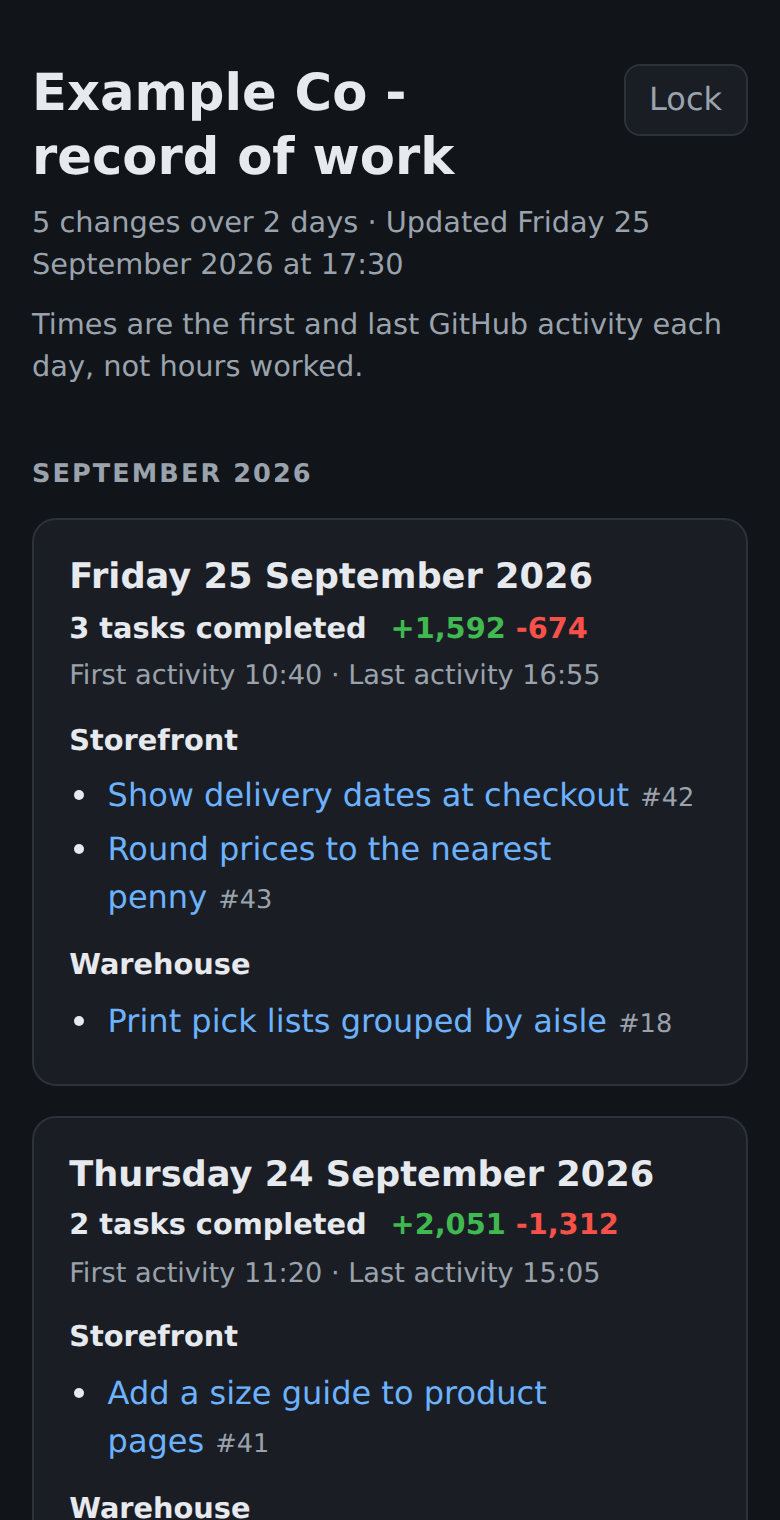
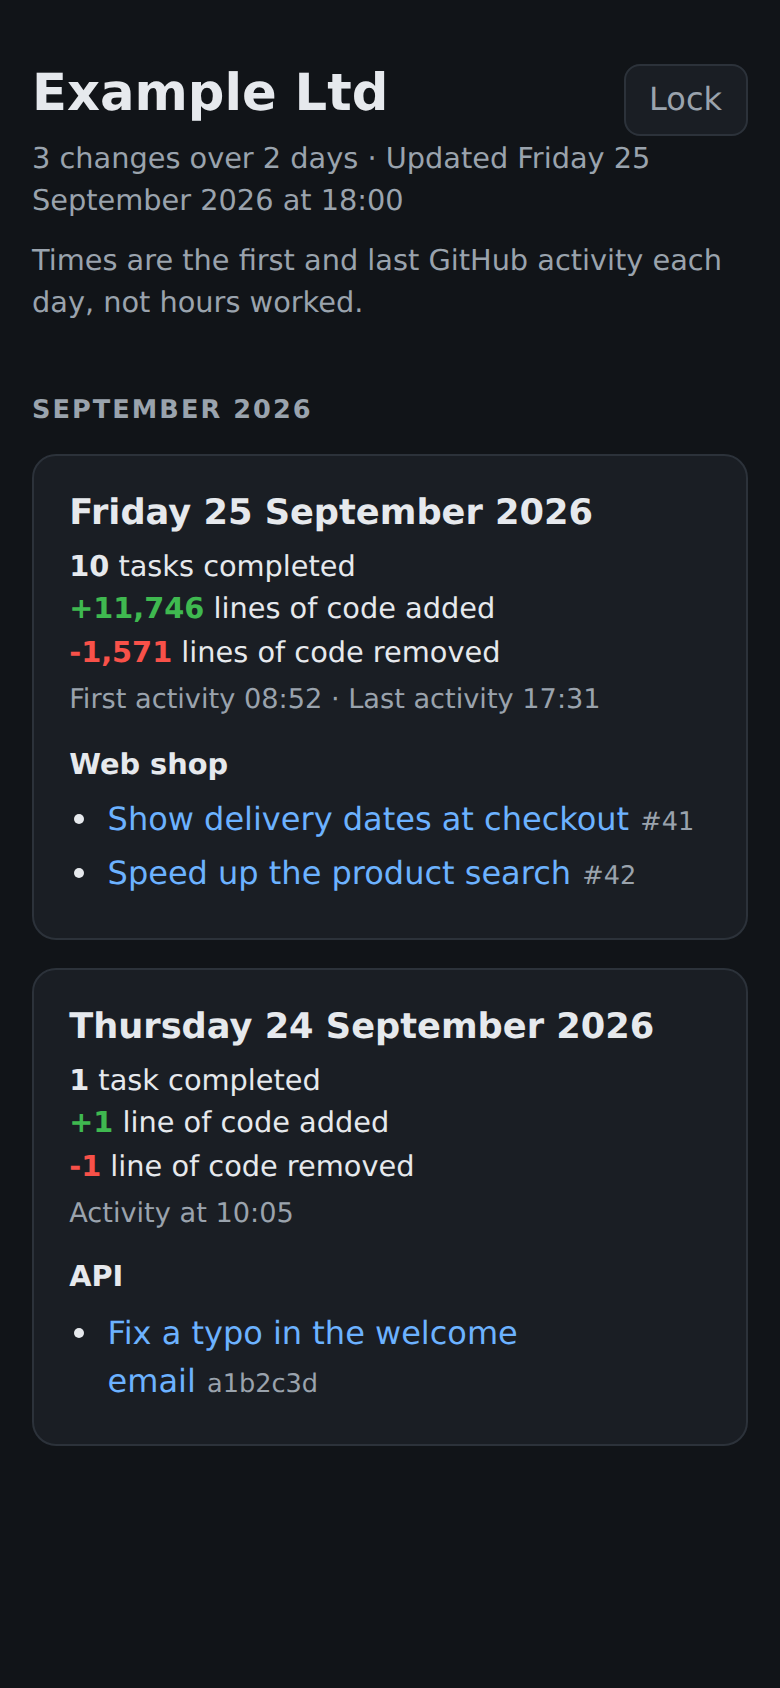
Spell out each day's totals in plain words on their own lines

diff --git a/src/render.js b/src/render.js
@@ -80,8 +80,9 @@ h2.month {
   margin-bottom: .9rem;
 }
 .day h3 { font-size: 1.1rem; margin: 0; }
-.stats { display: flex; flex-wrap: wrap; gap: .15rem .75rem; font-size: .9rem; font-weight: 600; margin: .15rem 0 0; }
-.diff { font-variant-numeric: tabular-nums; white-space: nowrap; }
+.stats { font-size: .9rem; margin: .2rem 0 0; line-height: 1.5; font-variant-numeric: tabular-nums; }
+.stats span { display: block; }
+.stats b { font-weight: 600; }
 .added { color: var(--added); }
 .removed { color: var(--removed); }
 .times { color: var(--muted); font-size: .85rem; margin: .1rem 0 .4rem; }
@@ -112,12 +113,17 @@ export function formatCount(value) {
   return new Intl.NumberFormat('en-US').format(value);
 }
 
+function plural(count, word) {
+  return count === 1 ? word : `${word}s`;
+}
+
 function renderStats(day) {
-  const tasks = `${formatCount(day.tasks)} ${day.tasks === 1 ? 'task' : 'tasks'} completed`;
   return (
-    `<p class="stats"><span>${tasks}</span>` +
-    `<span class="diff"><span class="added">+${formatCount(day.additions)}</span> ` +
-    `<span class="removed">-${formatCount(day.deletions)}</span></span></p>`
+    `<p class="stats">` +
+    `<span><b>${formatCount(day.tasks)}</b> ${plural(day.tasks, 'task')} completed</span>` +
+    `<span><b class="added">+${formatCount(day.additions)}</b> ${plural(day.additions, 'line')} of code added</span>` +
+    `<span><b class="removed">-${formatCount(day.deletions)}</b> ${plural(day.deletions, 'line')} of code removed</span>` +
+    `</p>`
   );
 }
 

diff --git a/test/render.test.js b/test/render.test.js
@@ -83,9 +83,12 @@ test('heads each day with tasks completed and green and red line counts', () => 
   const html = render();
   assert.match(
     html,
-    /<h3>Friday 25 September 2026<\/h3><p class="stats"><span>1 task completed<\/span><span class="diff"><span class="added">\+1,234<\/span> <span class="removed">-567<\/span>/,
+    /<h3>Friday 25 September 2026<\/h3><p class="stats"><span><b>1<\/b> task completed<\/span><span><b class="added">\+1,234<\/b> lines of code added<\/span><span><b class="removed">-567<\/b> lines of code removed<\/span><\/p>/,
   );
-  assert.match(html, /<span class="added">\+0<\/span> <span class="removed">-3<\/span>/);
-  assert.match(render({ days: [{ ...days[0], tasks: 3 }] }), /3 tasks completed/);
+  assert.match(html, /<b class="added">\+0<\/b> lines of code added<\/span><span><b class="removed">-3<\/b> lines of code removed/);
+  const single = render({ days: [{ ...days[0], tasks: 3, additions: 1, deletions: 1 }] });
+  assert.match(single, /<b>3<\/b> tasks completed/);
+  assert.match(single, /\+1<\/b> line of code added/);
+  assert.match(single, /-1<\/b> line of code removed/);
   assert.match(html, /--added: #1a7f37;[\s\S]*--removed: #d1242f;[\s\S]*--added: #3fb950;[\s\S]*--removed: #f85149;/);
 });
